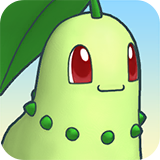
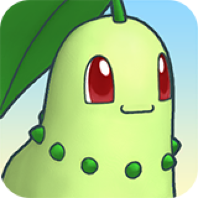
Final version 1.0

diff --git a/index.html b/index.html
@@ -181,7 +181,7 @@
     .icon-content img {
       max-width: 100%;
       max-height: 100%;
-      object-fit: cover;
+      object-fit: contain;
     }
 
     #finalimage {
@@ -221,7 +221,7 @@
     <div id="portraituploadwrapper" style="display:none;">
       <label for="portraitupload">Upload Portrait:</label>
       <input type="file" id="portraitupload" accept="image/*">
-
+<br><br>
       <label for="iconalign">Icon Alignment:</label>
       <select id="iconalign">
         <option value="left" selected>Left</option>
@@ -239,9 +239,9 @@
       <option value="yellow">Yellow</option>
     </select>
 
-    <button class="btn" id="musicbtn">♬ Play Music</button>
-    <button class="btn" id="previewbtn">▶ Generator</button>
-    <button class="btn" id="downloadbtn" style="display:none;">⬇ Download PNG</button>
+    <button class="btn" id="musicbtn">⏸ Stop Music</button>
+    <button class="btn" id="previewbtn">▶ Create</button>
+    <button class="btn" id="downloadbtn" style="display:none;">Download PNG</button>
   </div>
 
   <div id="previewroot">
@@ -261,7 +261,7 @@
   <div id="resulttitle">Result:</div>
   <img id="finalimage" alt="Generated PMD Textbox" style="display:none;">
 
-  <audio id="bgmusic" src="assets/audio/music.mp3" loop></audio>
+  <audio id="bgmusic" src="assets/audio/music.mp3" loop autoplay></audio>
 
   <script src="https://cdnjs.cloudflare.com/ajax/libs/html2canvas/1.4.1/html2canvas.min.js"></script>
   <script>
@@ -286,7 +286,12 @@
     const textboxframe = document.getElementById('textboxframe');
     const resulttitle = document.getElementById('resulttitle');
 
-    let musicPlaying = false; 
+    let musicPlaying = true; // Music auto-starts
+
+    // Auto-play music
+    window.addEventListener('load', () => {
+      bgmusic.play().catch(e => console.log("Autoplay blocked:", e));
+    });
 
     // Toggle portrait
     iconmode.addEventListener('change', () => {
@@ -320,18 +325,32 @@
       }
     });
 
-    // Load ICON
+    // Load ICON and resize if too small
     portraitupload.addEventListener('change', (e) => {
       const file = e.target.files[0];
-      if (file) {
-        const reader = new FileReader();
-        reader.onload = () => {
-          portrait.src = reader.result;
+      if (!file) return;
+
+      const reader = new FileReader();
+      reader.onload = () => {
+        const img = new Image();
+        img.onload = () => {
+          // Resize if smaller than 198x198
+          const minSize = 198;
+          if (img.width < minSize || img.height < minSize) {
+            const canvas = document.createElement('canvas');
+            const scale = Math.max(minSize / img.width, minSize / img.height);
+            canvas.width = img.width * scale;
+            canvas.height = img.height * scale;
+            const ctx = canvas.getContext('2d');
+            ctx.drawImage(img, 0, 0, canvas.width, canvas.height);
+            portrait.src = canvas.toDataURL();
+          } else {
+            portrait.src = reader.result;
+          }
         };
-        reader.readAsDataURL(file);
-      } else {
-        portrait.src = "assets/image/chikorita.png";
-      }
+        img.src = reader.result;
+      };
+      reader.readAsDataURL(file);
     });
 
     // Render text
